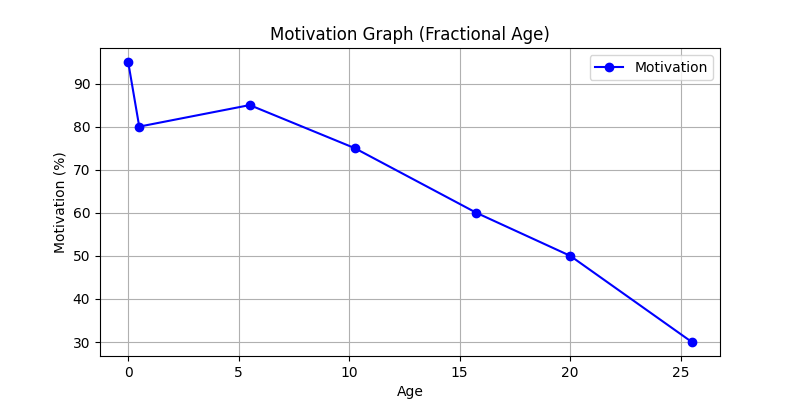
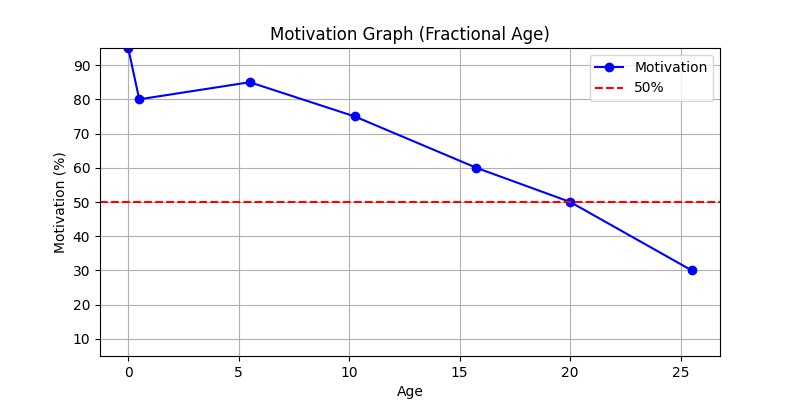
feat: 50%を基準に設定

diff --git a/src/graph.py b/src/graph.py
@@ -15,6 +15,12 @@ for entry in data.values():
 # モチベーショングラフを作成
 plt.figure(figsize=(8, 4))
 plt.plot(ages, motivation, marker='o', linestyle='-', color='blue', label='Motivation')
+plt.axhline(50, color='red', linestyle='--', label='50%')
+# y軸を50%を中心に設定
+y_min = min(motivation)
+y_max = max(motivation)
+max_dev = max(abs(50 - y_min), abs(y_max - 50))
+plt.ylim(50 - max_dev, 50 + max_dev)
 plt.title("Motivation Graph (Fractional Age)")
 plt.xlabel("Age")
 plt.ylabel("Motivation (%)")
